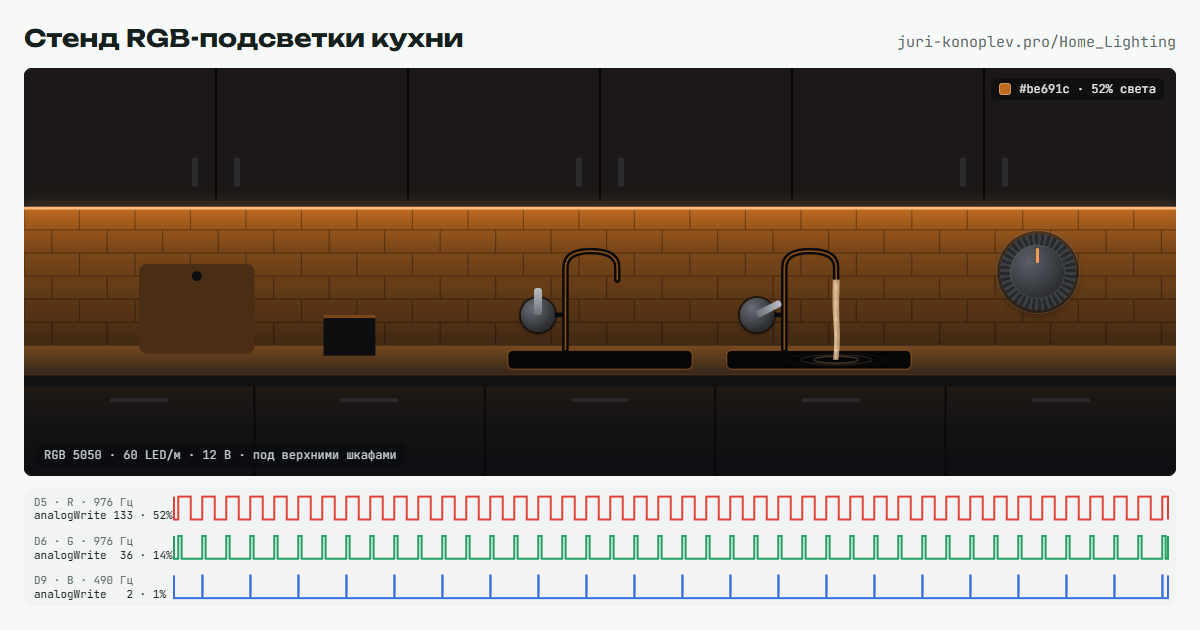
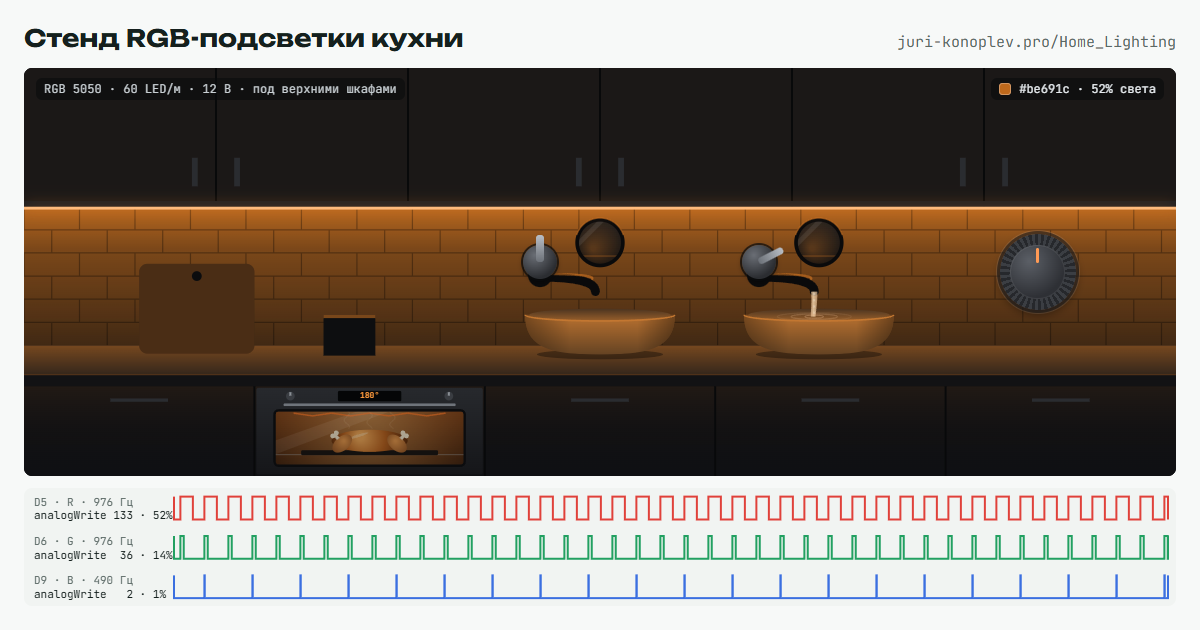
Кухня: чаши-«вазы», настенные смесители, зеркала и духовка с индейкой
- Мойки как на фото: белые керамические чаши на столешнице, чёрные
  настенные смесители с рычагом сверху (крутятся, как и раньше).
- Над каждой чашей круглое зеркало в тонкой чёрной раме с отсветом ленты.
- В нижних шкафах духовка: через тонированное стекло видно индейку,
  ТЭН мерцает, над птицей марево, на панели 180°.
- Подпись о ленте перенесена наверх, чтобы не закрывать духовку.
- tools/lib/chrome.mjs: скриншоты захватывают и то, что ниже окна.

diff --git a/docs/js/scene.js b/docs/js/scene.js
@@ -1,4 +1,5 @@
-// Сцена кухни на canvas: шкафы, лента, фартук, двойная мойка с кранами и водой,
+// Сцена кухни на canvas: шкафы, лента, фартук, две чаши-«вазы» с настенными смесителями,
+// круглые зеркала, вода,
 // режим «Проводка» (где идут кабели) и осциллограф на затворах.
 
 // Геометрия в долях ширины/высоты холста. DOM-ручки (энкодер, краны) ставятся по этим же числам.
@@ -7,7 +8,7 @@ const SC = {
   topY: 0.68,              // задний край столешницы
   edgeY: 0.75,             // передняя кромка столешницы
   sinks: [0.5, 0.69],      // центры двух чаш
-  sinkW: 0.16,
+  bowlW: 0.13,             // ширина чаши-«вазы»
   knob: [0.88, 0.5],       // энкодер на фартуке (совпадает с CSS .knob.scene)
   irX: 0.6,                // ИК-приёмник на кромке шкафа
 };
@@ -19,9 +20,15 @@ const scene = {
 
 function faucetGeom(i, W, H) {
   const sx = SC.sinks[i] * W;
-  const bx = sx - 0.03 * W;                               // основание смесителя за чашей
-  const fy = (SC.cabB + (SC.topY - SC.cabB) * 0.32) * H;  // верх «гусака»
-  return { sx, bx, fy, ex: bx + 0.045 * W, ey: fy + 0.07 * H, hx: bx - 0.024 * W, hy: (SC.topY - 0.075) * H };
+  const bodyX = sx - 0.052 * W;  // настенный смеситель слева за чашей, как на фото
+  return {
+    sx, bodyX, bowlW: SC.bowlW * W,
+    rimY: (SC.topY - 0.075) * H,                  // верхний край чаши
+    bodyTop: 0.49 * H, bodyBot: 0.525 * H,        // корпус смесителя на стене
+    ex: sx - 0.004 * W, ey: 0.548 * H,            // конец излива над центром чаши
+    hx: bodyX, hy: 0.476 * H,                     // рычаг сверху корпуса (DOM-ручка)
+    mirror: { x: sx, y: 0.428 * H, r: 0.056 * H }, // круглое зеркало над чашей
+  };
 }
 // Где на сцене стоят DOM-ручки кранов (в процентах)
 function tapPosition(i) {
@@ -64,12 +71,10 @@ function drawRoom(disp, lin, tm, dt) {
   x.fillStyle = '#18181a'; x.fillRect(0, topY, W, edgeY - topY);
   x.fillStyle = tg; x.fillRect(0, topY, W, edgeY - topY);
 
-  // Двойная мойка: две чаши
-  const sw = SC.sinkW * W;
-  SC.sinks.forEach((s) => {
-    x.fillStyle = '#060607';
-    x.beginPath(); x.roundRect(s * W - sw / 2, topY + H * 0.012, sw, edgeY - topY - H * 0.024, H * 0.012); x.fill();
-    x.strokeStyle = L(0.45); x.lineWidth = Math.max(1, H * 0.003); x.stroke();
+  // Круглые зеркала и настенные смесители над чашами
+  SC.sinks.forEach((_, i) => {
+    drawMirror(x, W, H, i, L);
+    drawFaucet(x, W, H, i, L);
   });
 
   // Разделочная доска у стены и банка
@@ -82,11 +87,10 @@ function drawRoom(disp, lin, tm, dt) {
   x.fillStyle = '#0d0e10'; x.fillRect(jx, topY + H * 0.025 - jh, jw, jh);
   x.fillStyle = L(0.6); x.fillRect(jx, topY + H * 0.025 - jh, jw, Math.max(2, H * 0.008));
 
-  // Смесители и вода
+  // Чаши-«вазы» на столешнице и вода из кранов
   scene.taps.forEach((tap, i) => {
     tap.flow += (tap.open - tap.flow) * Math.min(1, dt / 140);  // напор меняется плавно
-    drawFaucet(x, W, H, i, L);
-    if (tap.flow > 0.01) drawWater(x, W, H, i, tap.flow, hue, a, tm);
+    drawBowl(x, W, H, i, hue, a, tm, tap.flow);
   });
 
   // Передняя кромка столешницы
@@ -103,6 +107,8 @@ function drawRoom(disp, lin, tm, dt) {
   for (let i = 1; i < 5; i++) x.fillRect(W * i / 5 - 1, lowY, 2, H - lowY);
   x.fillStyle = '#2a2c30';
   for (let i = 0; i < 5; i++) x.fillRect(W * (i + 0.5) / 5 - W * 0.025, lowY + H * 0.03, W * 0.05, Math.max(2, H * 0.008));
+
+  drawOven(x, W, H, tm);
 
   // Верхние шкафы
   x.fillStyle = '#131417'; x.fillRect(0, 0, W, cabB);
@@ -123,46 +129,98 @@ function drawRoom(disp, lin, tm, dt) {
   x.restore();
 }
 
-function drawFaucet(x, W, H, i, L) {
-  const g = faucetGeom(i, W, H), topY = SC.topY * H, fw = H * 0.016;
+function drawMirror(x, W, H, i, L) {
+  const { x: mx, y: my, r } = faucetGeom(i, W, H).mirror;
   x.save();
-  x.lineCap = 'round';
-  // рычаг-держатель ручки: от корпуса к DOM-ручке
-  x.strokeStyle = '#0a0a0b'; x.lineWidth = fw * 0.7;
-  x.beginPath(); x.moveTo(g.bx, g.hy); x.lineTo(g.hx, g.hy); x.stroke();
-  // «гусак»
+  x.beginPath(); x.arc(mx, my, r, 0, Math.PI * 2); x.clip();
+  const g = x.createLinearGradient(mx, my - r, mx, my + r);
+  g.addColorStop(0, '#16191d'); g.addColorStop(1, '#0b0d10');
+  x.fillStyle = g; x.fillRect(mx - r, my - r, 2 * r, 2 * r);
+  // в зеркале отражается освещённая кухня за спиной: мягкий отсвет цвета ленты
+  const rg = x.createRadialGradient(mx - r * 0.3, my + r * 0.25, r * 0.1, mx, my, r * 1.1);
+  rg.addColorStop(0, L(0.4)); rg.addColorStop(1, L(0.06));
+  x.fillStyle = rg; x.fillRect(mx - r, my - r, 2 * r, 2 * r);
+  // отражение противоположной столешницы
+  x.fillStyle = L(0.25); x.fillRect(mx - r, my + r * 0.55, 2 * r, r * 0.08);
+  // диагональный блик на стекле
+  x.fillStyle = 'rgba(255,255,255,.08)';
   x.beginPath();
-  x.moveTo(g.bx, topY + H * 0.01); x.lineTo(g.bx, g.fy + H * 0.04);
-  x.quadraticCurveTo(g.bx, g.fy, g.bx + W * 0.022, g.fy);
-  x.quadraticCurveTo(g.ex, g.fy, g.ex, g.fy + H * 0.04);
-  x.lineTo(g.ex, g.ey);
-  x.strokeStyle = '#0a0a0b'; x.lineWidth = fw; x.stroke();
-  x.strokeStyle = L(0.7); x.lineWidth = fw * 0.25; x.stroke();  // блик от ленты сверху
+  x.moveTo(mx - r, my - r * 0.05); x.lineTo(mx - r * 0.05, my - r);
+  x.lineTo(mx + r * 0.25, my - r); x.lineTo(mx - r, my + r * 0.25);
+  x.fill();
+  x.restore();
+  // тонкая чёрная рама и отсвет ленты на её верхней кромке
+  x.lineWidth = Math.max(2, H * 0.009); x.strokeStyle = '#0a0a0b';
+  x.beginPath(); x.arc(mx, my, r, 0, Math.PI * 2); x.stroke();
+  x.lineWidth = Math.max(1, H * 0.003); x.strokeStyle = L(0.6);
+  x.beginPath(); x.arc(mx, my, r + H * 0.004, Math.PI * 1.1, Math.PI * 1.9); x.stroke();
+}
+
+function drawFaucet(x, W, H, i, L) {
+  const g = faucetGeom(i, W, H), w = W * 0.011, cy = (g.bodyTop + g.bodyBot) / 2;
+  x.save();
+  x.fillStyle = '#0a0a0b';
+  x.beginPath(); x.arc(g.bodyX, cy, w * 0.95, 0, Math.PI * 2); x.fill();          // розетка на стене
+  x.beginPath(); x.roundRect(g.bodyX - w / 2, g.bodyTop, w, g.bodyBot - g.bodyTop, w * 0.3); x.fill();  // корпус
+  // излив: из стены вперёд и дугой вниз над чашей
+  x.lineCap = 'round'; x.strokeStyle = '#0a0a0b'; x.lineWidth = w * 0.7;
+  x.beginPath(); x.moveTo(g.bodyX, g.bodyBot - w * 0.4); x.quadraticCurveTo(g.ex, g.bodyBot - w * 0.4, g.ex, g.ey); x.stroke();
+  // блики от ленты сверху
+  x.strokeStyle = L(0.6); x.lineWidth = w * 0.18;
+  x.beginPath(); x.moveTo(g.bodyX, g.bodyBot - w * 0.65); x.quadraticCurveTo(g.ex, g.bodyBot - w * 0.65, g.ex - w * 0.25, g.ey - w); x.stroke();
+  x.fillStyle = L(0.5); x.fillRect(g.bodyX - w / 2, g.bodyTop, w, Math.max(1, H * 0.003));
   x.restore();
 }
 
-function drawWater(x, W, H, i, f, hue, a, tm) {
-  const g = faucetGeom(i, W, H);
-  const y0 = g.ey, y1 = SC.topY * H + H * 0.035, len = y1 - y0;
-  const w = W * (0.002 + 0.006 * f);
-  // Вода почти бесцветная, но отражает свет ленты
+// Белая керамическая чаша на столешнице: свет ленты падает сверху, бока в тени
+function drawBowl(x, W, H, i, hue, a, tm, flow) {
+  const g = faucetGeom(i, W, H), topY = SC.topY * H;
+  const bw = g.bowlW, cx = g.sx, rimY = g.rimY, rimH = H * 0.03, baseY = topY + H * 0.022;
+  const ceramic = (al) => `rgb(${hue.map((v) => Math.round(24 + v * 0.9 * a * al))})`;
+  x.save();
+  x.fillStyle = 'rgba(0,0,0,.35)';  // тень на столешнице
+  x.beginPath(); x.ellipse(cx, baseY, bw * 0.42, H * 0.012, 0, 0, Math.PI * 2); x.fill();
+  // корпус
+  x.beginPath();
+  x.moveTo(cx - bw / 2, rimY);
+  x.bezierCurveTo(cx - bw / 2, rimY + (baseY - rimY) * 0.9, cx - bw * 0.3, baseY, cx, baseY);
+  x.bezierCurveTo(cx + bw * 0.3, baseY, cx + bw / 2, rimY + (baseY - rimY) * 0.9, cx + bw / 2, rimY);
+  x.closePath();
+  const bg = x.createLinearGradient(0, rimY, 0, baseY);
+  bg.addColorStop(0, ceramic(0.95)); bg.addColorStop(1, ceramic(0.45));
+  x.fillStyle = bg; x.fill();
+  const sg = x.createLinearGradient(cx - bw / 2, 0, cx + bw / 2, 0);
+  sg.addColorStop(0, 'rgba(0,0,0,.35)'); sg.addColorStop(0.3, 'rgba(0,0,0,0)');
+  sg.addColorStop(0.75, 'rgba(0,0,0,0)'); sg.addColorStop(1, 'rgba(0,0,0,.4)');
+  x.fillStyle = sg; x.fill();
+  // проём: ближняя стенка изнутри в тени, дальняя освещена
+  x.beginPath(); x.ellipse(cx, rimY, bw / 2 * 0.94, rimH / 2, 0, 0, Math.PI * 2);
+  const ig = x.createLinearGradient(0, rimY - rimH / 2, 0, rimY + rimH / 2);
+  ig.addColorStop(0, ceramic(0.3)); ig.addColorStop(1, ceramic(0.75));
+  x.fillStyle = ig; x.fill();
+  if (flow > 0.01) drawWater(x, W, H, g, flow, hue, a, tm, rimH);
+  // передняя кромка
+  x.lineWidth = Math.max(1, H * 0.004); x.strokeStyle = ceramic(1);
+  x.beginPath(); x.ellipse(cx, rimY, bw / 2, rimH / 2, 0, 0, Math.PI); x.stroke();
+  x.restore();
+}
+
+function drawWater(x, W, H, g, f, hue, a, tm, rimH) {
+  const y0 = g.ey, y1 = g.rimY + rimH * 0.15, len = y1 - y0;
+  const w = W * (0.002 + 0.005 * f);
+  // вода почти бесцветная, но отражает свет ленты
   const col = [0, 1, 2].map((k) => Math.round(170 + 60 * (1 - a) + (hue[k] - 170) * a * 0.55));
   x.save();
   // струя с лёгким колыханием
   x.beginPath();
-  const seg = 14;
-  for (let s = 0; s <= seg; s++) {
+  const seg = 10;
+  const edge = (s, side) => {
     const y = y0 + len * s / seg;
     const wob = Math.sin(y * 0.08 + tm * 0.018) * w * 0.18 * (s / seg);
-    const ww = w * (1 - 0.25 * s / seg);
-    if (s === 0) x.moveTo(g.ex - ww / 2 + wob, y); else x.lineTo(g.ex - ww / 2 + wob, y);
-  }
-  for (let s = seg; s >= 0; s--) {
-    const y = y0 + len * s / seg;
-    const wob = Math.sin(y * 0.08 + tm * 0.018) * w * 0.18 * (s / seg);
-    const ww = w * (1 - 0.25 * s / seg);
-    x.lineTo(g.ex + ww / 2 + wob, y);
-  }
+    return [g.ex + side * w * (1 - 0.25 * s / seg) / 2 + wob, y];
+  };
+  for (let s = 0; s <= seg; s++) { const [px, py] = edge(s, -1); if (s === 0) x.moveTo(px, py); else x.lineTo(px, py); }
+  for (let s = seg; s >= 0; s--) { const [px, py] = edge(s, 1); x.lineTo(px, py); }
   x.closePath();
   const sg = x.createLinearGradient(g.ex - w, 0, g.ex + w, 0);
   sg.addColorStop(0, `rgba(${col},${0.25 + 0.3 * f})`);
@@ -171,17 +229,104 @@ function drawWater(x, W, H, i, f, hue, a, tm) {
   x.fillStyle = sg; x.fill();
   // бегущие вниз блики
   x.fillStyle = `rgba(255,255,255,${0.35 * f})`;
-  for (let k = 0; k < 5; k++) {
-    const p = ((tm * 0.0016 * (0.6 + f) + k / 5) % 1);
-    x.fillRect(g.ex - w * 0.15, y0 + p * len, w * 0.3, len * 0.05);
+  for (let k = 0; k < 4; k++) {
+    const p = (tm * 0.0018 * (0.6 + f) + k / 4) % 1;
+    x.fillRect(g.ex - w * 0.15, y0 + p * len, w * 0.3, len * 0.08);
   }
-  // круги и брызги в чаше
+  // круги на воде внутри чаши
+  x.beginPath(); x.ellipse(g.sx, g.rimY, g.bowlW / 2 * 0.92, rimH / 2 * 0.9, 0, 0, Math.PI * 2); x.clip();
   for (let k = 0; k < 3; k++) {
-    const p = ((tm * 0.0012 + k / 3) % 1);
-    x.strokeStyle = `rgba(${col},${(1 - p) * 0.5 * f})`;
+    const p = (tm * 0.0012 + k / 3) % 1;
+    x.strokeStyle = `rgba(${col},${(1 - p) * 0.55 * f})`;
     x.lineWidth = Math.max(1, H * 0.003);
-    x.beginPath(); x.ellipse(g.ex, y1, W * 0.012 + p * W * 0.03 * (0.5 + f), H * 0.006 + p * H * 0.01, 0, 0, Math.PI * 2); x.stroke();
+    x.beginPath(); x.ellipse(g.ex, y1, W * 0.008 + p * W * 0.03 * (0.5 + f), rimH * (0.12 + p * 0.3), 0, 0, Math.PI * 2); x.stroke();
   }
+  x.restore();
+}
+
+// Духовка во второй секции нижних шкафов: через тонированное стекло видно индейку
+function drawOven(x, W, H, tm) {
+  const lowY = (SC.edgeY + 0.03) * H;
+  const ox = 0.2 * W + 2, ow = 0.2 * W - 4, oy = lowY + H * 0.004, oh = H - oy - H * 0.004;
+  const mono = getComputedStyle(document.documentElement).getPropertyValue('--mono');
+  x.save();
+  // корпус из тёмной нержавейки
+  const body = x.createLinearGradient(0, oy, 0, oy + oh);
+  body.addColorStop(0, '#27292d'); body.addColorStop(1, '#151619');
+  x.fillStyle = body; x.beginPath(); x.roundRect(ox, oy, ow, oh, H * 0.006); x.fill();
+  // панель: дисплей температуры и две ручки
+  x.fillStyle = '#050607'; x.beginPath(); x.roundRect(ox + ow * 0.36, oy + oh * 0.035, ow * 0.28, oh * 0.12, H * 0.004); x.fill();
+  x.fillStyle = '#ff9a3c'; x.textAlign = 'center'; x.textBaseline = 'middle';
+  x.font = `600 ${Math.max(8, oh * 0.085)}px ${mono}`;
+  x.fillText('180°', ox + ow * 0.5, oy + oh * 0.097);
+  [0.15, 0.85].forEach((k) => {
+    x.fillStyle = '#3a3d42'; x.beginPath(); x.arc(ox + ow * k, oy + oh * 0.095, oh * 0.05, 0, Math.PI * 2); x.fill();
+    x.fillStyle = '#8b9096'; x.fillRect(ox + ow * k - 1, oy + oh * 0.05, 2, oh * 0.04);
+  });
+  // ручка дверцы
+  x.fillStyle = '#6f747b'; x.beginPath(); x.roundRect(ox + ow * 0.12, oy + oh * 0.18, ow * 0.76, oh * 0.03, oh * 0.015); x.fill();
+
+  // стекло дверцы
+  const gx = ox + ow * 0.08, gy = oy + oh * 0.26, gw = ow * 0.84, gh = oh * 0.64;
+  x.beginPath(); x.roundRect(gx, gy, gw, gh, H * 0.01); x.save(); x.clip();
+  // камера: тёплый свет лампы
+  const cav = x.createLinearGradient(0, gy, 0, gy + gh);
+  cav.addColorStop(0, '#6b3310'); cav.addColorStop(1, '#241006');
+  x.fillStyle = cav; x.fillRect(gx, gy, gw, gh);
+  const lamp = x.createRadialGradient(gx + gw * 0.5, gy, gw * 0.05, gx + gw * 0.5, gy + gh * 0.3, gw * 0.7);
+  lamp.addColorStop(0, 'rgba(255,190,110,.55)'); lamp.addColorStop(1, 'rgba(255,150,60,0)');
+  x.fillStyle = lamp; x.fillRect(gx, gy, gw, gh);
+  // верхний ТЭН мерцает
+  const glow = 0.65 + 0.25 * Math.sin(tm * 0.004);
+  x.strokeStyle = `rgba(255,${Math.round(90 + 40 * glow)},40,${glow})`; x.lineWidth = Math.max(1.5, gh * 0.025);
+  x.beginPath();
+  for (let k = 0; k <= 8; k++) { const px = gx + gw * (0.1 + 0.1 * k), py = gy + gh * (k % 2 ? 0.1 : 0.05); if (k) x.lineTo(px, py); else x.moveTo(px, py); }
+  x.stroke();
+  // решётка и противень
+  x.strokeStyle = 'rgba(160,160,160,.5)'; x.lineWidth = Math.max(1, gh * 0.015);
+  x.beginPath(); x.moveTo(gx, gy + gh * 0.8); x.lineTo(gx + gw, gy + gh * 0.8); x.stroke();
+  x.fillStyle = '#1a1512'; x.beginPath(); x.roundRect(gx + gw * 0.14, gy + gh * 0.72, gw * 0.72, gh * 0.09, gh * 0.03); x.fill();
+
+  // индейка: румяная тушка, две ножки с косточками, блеск жира
+  const cx = gx + gw * 0.5, cy = gy + gh * 0.55, rx = gw * 0.2, ry = gh * 0.2;
+  const tb = x.createRadialGradient(cx - rx * 0.25, cy - ry * 0.4, rx * 0.1, cx, cy, rx * 1.1);
+  tb.addColorStop(0, '#f0a857'); tb.addColorStop(0.45, '#b8621f'); tb.addColorStop(1, '#4e2308');
+  x.fillStyle = tb; x.beginPath(); x.ellipse(cx, cy, rx, ry, 0, 0, Math.PI * 2); x.fill();
+  x.fillStyle = 'rgba(255,240,210,.35)';
+  x.beginPath(); x.ellipse(cx - rx * 0.3, cy - ry * 0.45, rx * 0.28, ry * 0.12, -0.3, 0, Math.PI * 2); x.fill();
+  // ножки спереди по бокам, косточки торчат вверх-наружу
+  const leg = (dir) => {
+    x.save();
+    x.translate(cx + dir * rx * 0.72, cy + ry * 0.25);
+    x.rotate(dir * 0.7);
+    const lg = x.createRadialGradient(-dir * rx * 0.08, -ry * 0.1, 1, 0, 0, rx * 0.55);
+    lg.addColorStop(0, '#e4964a'); lg.addColorStop(1, '#6a3310');
+    x.fillStyle = lg; x.beginPath(); x.ellipse(0, 0, rx * 0.3, ry * 0.62, 0, 0, Math.PI * 2); x.fill();
+    x.fillStyle = '#f3e6cc';
+    x.fillRect(-rx * 0.045, -ry * 1.05, rx * 0.09, ry * 0.5);
+    x.beginPath(); x.arc(-rx * 0.06, -ry * 1.08, rx * 0.065, 0, Math.PI * 2); x.arc(rx * 0.06, -ry * 1.08, rx * 0.065, 0, Math.PI * 2); x.fill();
+    x.restore();
+  };
+  leg(-1); leg(1);
+  // горячий воздух над птицей
+  x.strokeStyle = 'rgba(255,220,180,.12)'; x.lineWidth = Math.max(1, gh * 0.012);
+  for (let k = 0; k < 3; k++) {
+    const bx = cx + (k - 1) * rx * 0.6;
+    x.beginPath();
+    for (let s = 0; s <= 10; s++) {
+      const py = cy - ry * 1.1 - s * gh * 0.035;
+      const px = bx + Math.sin(s * 0.9 + tm * 0.004 + k) * gw * 0.015;
+      if (s) x.lineTo(px, py); else x.moveTo(px, py);
+    }
+    x.stroke();
+  }
+  // тонированное стекло: видно, но приглушённо, плюс диагональный блик
+  x.fillStyle = 'rgba(8,6,5,.3)'; x.fillRect(gx, gy, gw, gh);
+  x.fillStyle = 'rgba(255,255,255,.06)';
+  x.beginPath(); x.moveTo(gx, gy + gh * 0.55); x.lineTo(gx + gw * 0.45, gy); x.lineTo(gx + gw * 0.62, gy); x.lineTo(gx, gy + gh * 0.8); x.fill();
+  x.restore();
+  x.strokeStyle = '#0b0c0e'; x.lineWidth = Math.max(2, H * 0.006);
+  x.beginPath(); x.roundRect(gx, gy, gw, gh, H * 0.01); x.stroke();
   x.restore();
 }
 

diff --git a/docs/css/style.css b/docs/css/style.css
@@ -60,7 +60,7 @@ header.top .lead { max-width: 68ch; color: var(--muted); margin-top: 6px; }
 /* Комната */
 .room { position: relative; border-radius: 8px; overflow: hidden; background: #0b0d10; aspect-ratio: 16 / 9; max-width: 100%; }
 .room canvas { width: 100%; height: 100%; display: block; }
-.room .tag { position: absolute; left: 12px; bottom: 10px; font: 12px var(--mono); color: #c9d0d4; background: rgba(8, 10, 12, .6); padding: 3px 8px; border-radius: 6px; }
+.room .tag { position: absolute; left: 12px; top: 10px; font: 12px var(--mono); color: #c9d0d4; background: rgba(8, 10, 12, .6); padding: 3px 8px; border-radius: 6px; }
 .room .val { position: absolute; right: 12px; top: 10px; font: 12px var(--mono); color: #e7ecef; background: rgba(8, 10, 12, .6); padding: 3px 8px; border-radius: 6px; display: flex; gap: 8px; align-items: center; }
 .room .sw { width: 12px; height: 12px; border-radius: 3px; border: 1px solid rgba(255,255,255,.3); }
 .scope { width: 100%; height: 132px; display: block; border-radius: 8px; background: var(--code-bg); }
